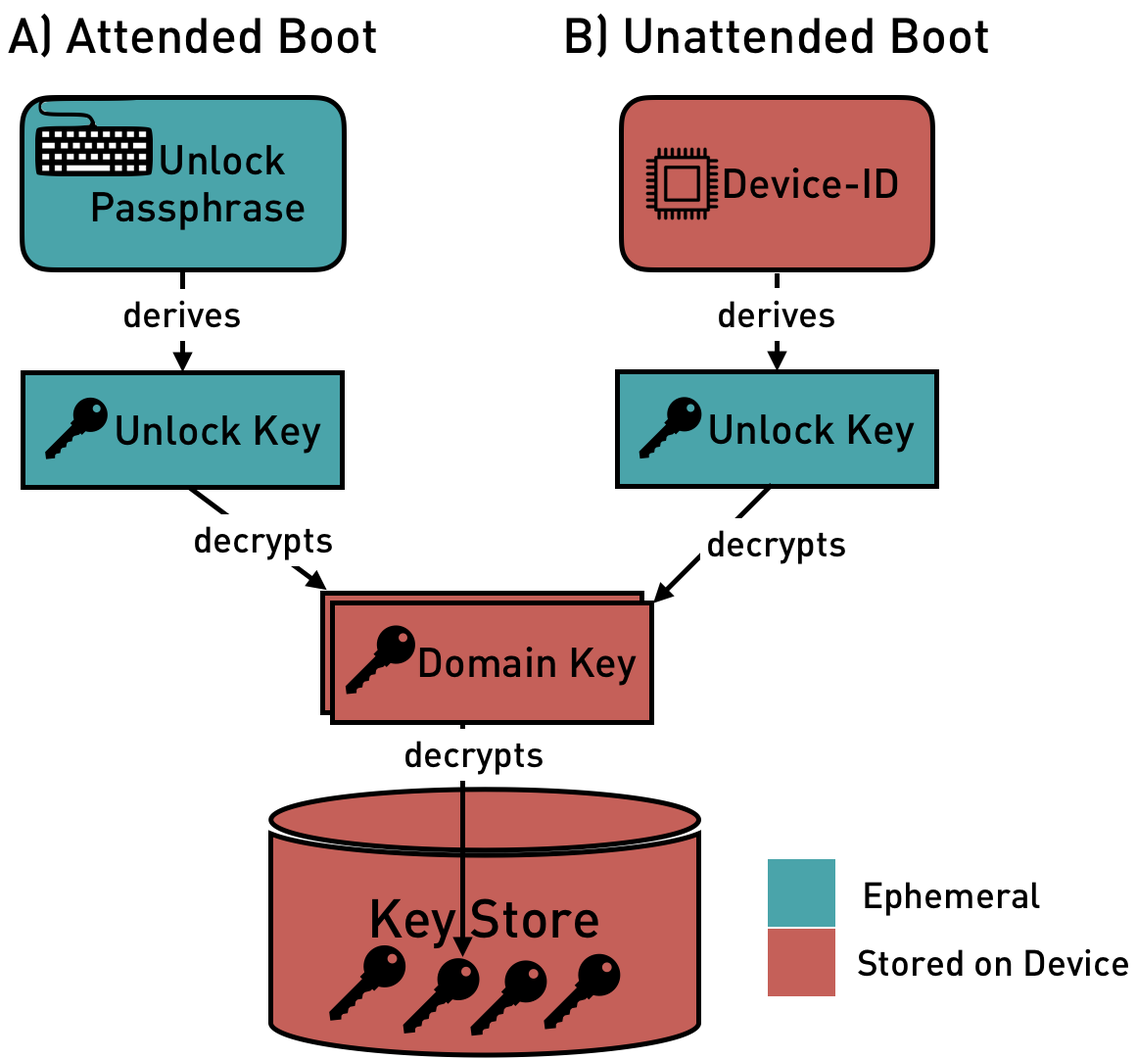
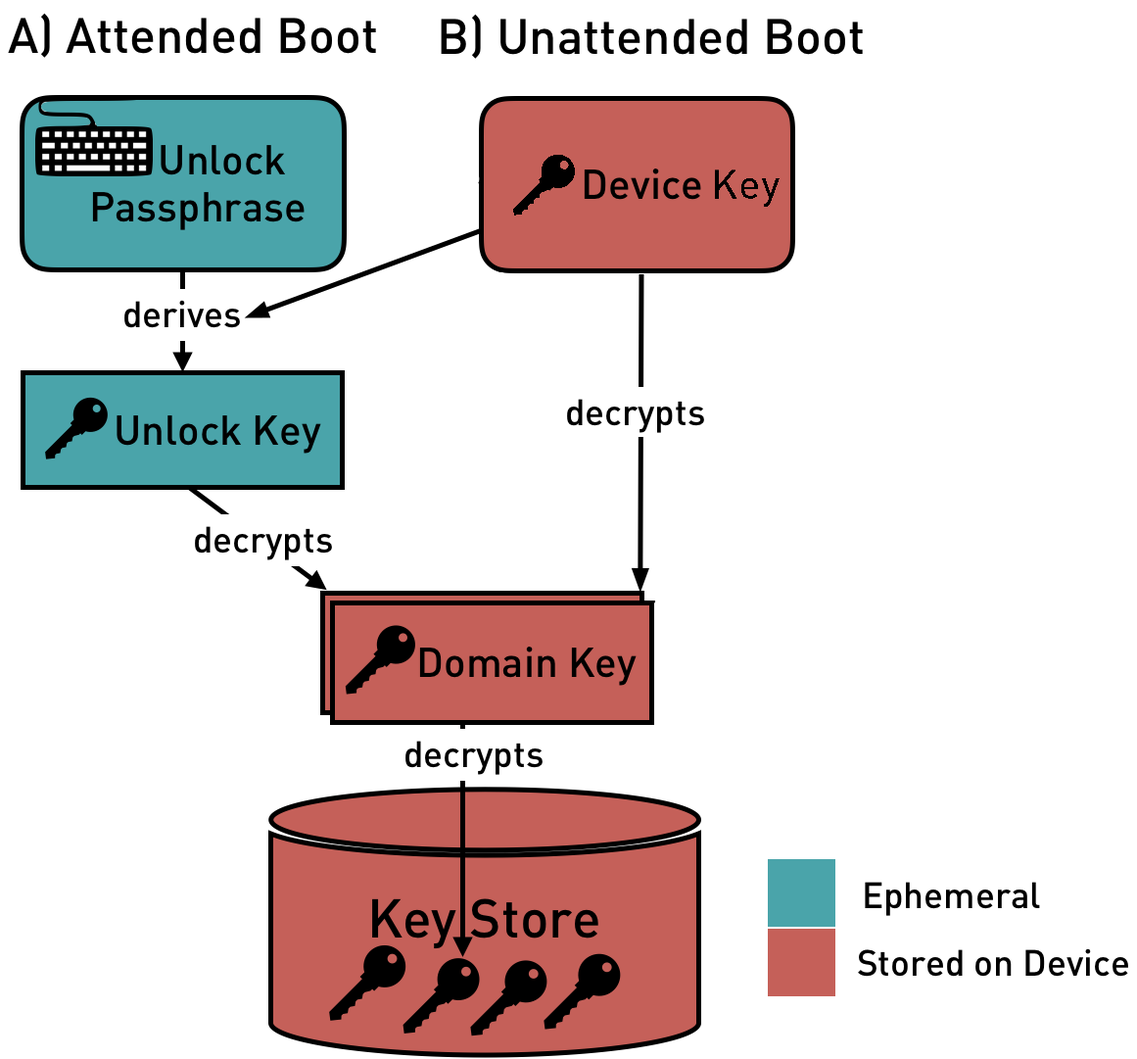
System Design updated globally

diff --git a/docs/system-design.md b/docs/system-design.md
@@ -1,6 +1,6 @@
 % NetHSM System Design
 % Hannes Mehnert; Martin Lucina; Stefanie Schirmer; Sven Anderson; Jan Suhr
-% Nitrokey GmbH, 30th August 2023
+% Nitrokey GmbH, 2023
 
 # Introduction {#sec-i}
 
@@ -31,12 +31,6 @@ We use Muen as the lowest layer, i.e. operating system that runs on the NetHSM h
 The following aspects of the system design, which have changed over the course of the development of NetHSM, are not yet reflected in this document:
 
 * [Reset to Factory Defaults](#sec-us-rtfd): NetHSM will not be equipped with a physical "Reset Button". Instead, the user will be required to initiate and _confirm_ a Reset to Factory Defaults by interacting with a local serial console connected to the unit. This feature is not implemented yet.
-* [Encryption Architecture](#sec-dd-ea): The _Device Key_ used as part of [Unattended Boot](#sec-us-ub) is currently hard-coded for development purposes. This will be replaced with a TPM-based solution, the exact details of which are yet to be defined.
-* [Technical Architecture](#sec-dd-ta): **S-TRNG** is not implemented yet and will be replaced by a TPM-based solution, the exact architecture of which is yet to be defined. For now **S-Storage** and **S-Platform** are combined in a single subject **S-Kitchen-Sink** and should be separated later.
-* [System Firmware](#sec-dd-ta-sf):
-    * _Firmware_ integrity shall be protected by the use of Intel Boot Guard on the platform. This feature is not implemented yet.
-    * Offline but on-site _Firmware_ update will be provided via **Ext-FirmwareUpdate**. This feature is not implemented yet.
-* [System Software Update](#sec-dd-ta-ssu): This feature is not yet implemented, and will be implemented using a simplified "A/B updates" mechanism with manual fall-back available by interacting with a local serial console connected to the unit.
 
 # Terminology and Conventions {#sec-tac}
 
@@ -58,7 +52,7 @@ Configuration Store
 
 Device Key
 
-: A persistent device-dependent identifier, unique to each NetHSM hardware unit delivered by Nitrokey. The Device Key is used to derive an _Unlock Key_, if and only if unattended boot is configured.
+: A persistent device-dependent key, unique to each NetHSM hardware unit delivered by Nitrokey. The *Device Key* is used to derive an _Unlock Key_.
 
 Domain Key
 
@@ -70,7 +64,7 @@ Domain Key Store
 
 Extension
 
-: An optional feature not part of the Minimum Viable Product. Extensions are referred to as **Ext-Name** throughout this document.
+: An optional feature not in scope of the current implementation. Extensions are referred to as **Ext-Name** throughout this document.
 
 Firmware
 
@@ -140,18 +134,11 @@ Note that this list of user stories is not exhaustive.
 
 ## Initial Provisioning {#sec-us-ip}
 
-Pre-conditions: An _Unprovisioned_ NetHSM, with its Ethernet port _directly_ connected to the secure client computer to be used for Initial Provisioning.
+Pre-conditions: An _Unprovisioned_ NetHSM, with its Ethernet port _directly_ connected to the client computer to be used for Initial Provisioning.
 
 1. Power on the NetHSM.
 2. The NetHSM will boot up with a static IP address of `192.168.1.1` and will generate a new self-signed TLS certificate and private key.
-3. On the secure client computer, browse to `https://192.168.1.1/`.
-4. Add a security exception for the NetHSM's self-signed TLS certificate.
-5. The system will prompt you to set the "wall clock" time (see [Timekeeping](#sec-dd-ta-s-t)).
-6. The system will prompt you to either:
-
-     a. Set an _Unlock Passphrase_.
-     b. Set a passphrase for an initial **R-Administrator** user account, by convention named `admin`.
-     c. The NetHSM is now in an _Operational_ state.
+3. On the client computer use a client tool (such as nitropy) or access the API directly at `https://(NetHSM's hostname)/api/` to provision the NetHSM. This includes setting NetHSM's system time, an _Unlock Passphrase_, and a passphrase for an initial **R-Administrator** user account, by convention named `admin`. The NetHSM is now in an _Operational_ state.
 7. Or:
 
      a. Restore from an existing backup. You will need to provide the _Backup Passphrase_.
@@ -160,9 +147,9 @@ Pre-conditions: An _Unprovisioned_ NetHSM, with its Ethernet port _directly_ con
 
 **Notes:**
 
-After step 6c, the user is expected to continue with configuration of the NetHSM, primarily by configuring the TLS endpoint by generating a CSR on the NetHSM and submitting the result to a certification authority.
+After step 3, the user is expected to continue with configuration of the NetHSM, primarily by configuring the TLS endpoint by generating a CSR on the NetHSM and submitting the result to a certification authority.
 
-In step 7a, the system will restore all _User Data_. This may result in the IP address and TLS certificate changing on next boot. Refer to [Backup and Restore](#sec-dd-ta-s-bar) for details.
+In step 4a, the system will restore all _User Data_. This may result in the IP address and TLS certificate changing on next boot. Refer to [Backup and Restore](#sec-dd-ta-s-bar) for details.
 
 ## Attended Boot {#sec-us-ab}
 
@@ -171,7 +158,7 @@ Pre-conditions: A _Provisioned_ NetHSM, connected to your infrastructure network
 1. Power on.
 2. The NetHSM boots up into the _Locked_ state. To unlock it, perform the following steps:
 
-     a. Browse to `https://(NetHSM's hostname)/`.
+     a. Use a client tool (e.g. nitropy) or access the API directly at `https://(NetHSM's hostname)/api/`.
      b. Enter the _Unlock Passphrase_.
 3. The NetHSM is now in an _Operational_ state.
 
@@ -195,9 +182,8 @@ Refer to [Encryption Architecture](#sec-dd-ea) for implementation details of una
 
 Pre-conditions: A _Provisioned_ NetHSM, connected to your infrastructure network.
 
-1. Browse to the NetHSM and log in as an **R-Administrator** account.
-2. Navigate to "configure unattended boot" and enable the option.
-3. On next boot, the NetHSM will behave as described in [Unattended Boot](#sec-us-ub).
+1. As a user with a **R-Administrator** role, use a client tool (e.g. nitropy) or access the API directly at `https://(NetHSM's hostname)/api/` to enable unattended boot.
+2. On next boot, the NetHSM will behave as described in [Unattended Boot](#sec-us-ub).
 
 **Notes:**
 
@@ -207,8 +193,7 @@ Refer to [Encryption Architecture](#sec-dd-ea) for implementation details of una
 
 Pre-conditions: A _Provisioned_ NetHSM, connected to your infrastructure network, with unattended boot enabled.
 
-1. Browse to the NetHSM and log in as an **R-Administrator** account.
-2. Navigate to "configure unattended boot" and disable the option.
+1. As a user with a **R-Administrator** role, use a client tool (e.g. nitropy) or access the API directly at `https://(NetHSM's hostname)/api/` to disable unattended boot.
 3. On next boot, the NetHSM will behave as described in [Attended Boot](#sec-us-ab).
 
 **Notes:**
@@ -219,12 +204,11 @@ Refer to [Encryption Architecture](#sec-dd-ea) for implementation details of una
 
 Pre-conditions: A _Provisioned_ NetHSM, connected to your infrastructure network.
 
-1. Browse to the NetHSM and log in as an **R-Administrator** account.
-2. Upload a signed _System Software_ image to the NetHSM.
-3. The NetHSM verifies image authenticity, integrity, and version number.
-4. Optionally, the NetHSM displays release notes, if any.
-5. Confirm the update operation ("commit").
-6. The NetHSM will reboot into the new _System Software_.
+1. As a user with a **R-Administrator** role, use a client tool (e.g. nitropy) or access the API directly at `https://(NetHSM's hostname)/api/` to upload a signed _System Software_ image to the NetHSM.
+2. The NetHSM verifies image authenticity, integrity, and version number.
+3. Optionally, the NetHSM displays release notes, if any.
+4. Confirm the update operation ("commit").
+5. The NetHSM will reboot into the new _System Software_.
 
 **Notes:**
 
@@ -236,9 +220,7 @@ If the NetHSM is powered down before the "commit" operation, the user will have 
 
 Pre-conditions: A _Provisioned_ NetHSM, connected to your infrastructure network. The _Backup Passphrase_ is configured.
 
-1. Browse to the NetHSM and log in as an **R-Administrator** or **R-Backup** account.
-2. Navigate to "Backup".
-3. Download the encrypted backup.
+1. As a user with a **R-Administrator** or **R-Backup** role, use a client tool (e.g. nitropy) or access the API directly at `https://(NetHSM's hostname)/api/` to download an encrypted backup.
 
 **Notes:**
 
@@ -254,11 +236,9 @@ Refer to [Reset to Factory Defaults](#sec-us-rtfd) and [Initial Provisioning](#s
 
 Pre-conditions: A _Provisioned_ NetHSM, connected to your infrastructure network.
 
-1. Browse to the NetHSM and log in as an **R-Administrator** account.
-2. Navigate to "Restore from an existing backup".
-3. You will need to provide the _Backup Passphrase_ and the backup archive.
-4. The NetHSM restores keys and users data.
-5. The NetHSM ends in Operational state.
+1. As a user with a **R-Administrator** role, use a client tool (e.g. nitropy) or access the API directly at `https://(NetHSM's hostname)/api/` to restore an existing backup to the NetHSM. This requires to provide the _Backup Passphrase_ and the backup archive file.
+2. The NetHSM restores keys and users data.
+3. The NetHSM ends in Operational state.
 
 **Notes:**
 
@@ -271,12 +251,10 @@ Pre-conditions: A _Provisioned_ NetHSM, connected to your infrastructure network
 
 Pre-conditions: A _Provisioned_ NetHSM, connected to your infrastructure network.
 
-1. Browse to the NetHSM and log in as an **R-Administrator** account.
-2. Navigate to "Reset to Factory Defaults".
-3. Confirm the operation.
-4. The NetHSM securely erases all _User Data_.
-5. The NetHSM reboots.
-6. The NetHSM boots up in an _Unprovisioned_ state; see [Initial Provisioning](#sec-us-ip).
+1. As a user with a **R-Administrator** role, use a client tool (e.g. nitropy) or access the API directly at `https://(NetHSM's hostname)/api/` to reset to Factory Defaults.
+2. The NetHSM securely erases all _User Data_.
+3. The NetHSM reboots.
+4. The NetHSM boots up in an _Unprovisioned_ state; see [Initial Provisioning](#sec-us-ip).
 
 ### Physical Reset (Recovery) {#sec-us-rtfd-pr}
 
@@ -305,10 +283,6 @@ For each data store, the diagram shows, as a high-level overview, which types of
 
 Each user account configured on the NetHSM has _one_ of the following _Roles_ assigned to it. Following is a high-level description of the operations allowed by individual _Roles_, for endpoint-specific details please refer to the REST API documentation.
 
-Notes:
-
-As an alternative to a physical "Reset Button", we may require the user to plug in a keyboard and hold down e.g. F2 while the NetHSM is booting. The final technology depends on the choice of hardware by Nitrokey.
-
 R-Administrator
 
 : A user account with this _Role_ has access to all operations provided by the REST API, with the exception of "key usage" operations, i.e. message signing and decryption.
@@ -329,7 +303,7 @@ R-Backup
 
 To enable a fine-grained access control of key usage operations, Operator user accounts can get assigned a list of _Tags_ granting them access to restricted keys.
 
-_Tags_ are managed by Administrator users:
+_Tags_ are managed by R-Administrator users:
 
 - Keys can be subject to a restriction list: a set of _Tags_ in which **one** of them need to be matched for the key to be used.
 - Operator users get assigned a set of _Tags_ enabling them the use of the corresponding keys. It can be read but not modified by the user.
@@ -346,13 +320,12 @@ The _Domain Key_ is stored in the _Domain Key Store_, and encrypted using AES256
 The _Domain Key Store_ contains two "Slots" for encrypted _Domain Keys_; which "Slot" is used depends on whether or not the NetHSM is configured for [Unattended Boot](#sec-us-ub). Specifically, a _Provisioned_ NetHSM (via **S-Keyfender**) performs the following steps during boot to transition from the initial _Locked_ state into an _Operational_ state:
 
 |     _State_ = _Locked_
-|     _Unlock Key_ = KDF(_Device Key_)
-|     _Domain Key_ = Decrypt\_AES256GCM(_Unlock Key_, _Slot 1_)
-|     IF decryption was successful:
+|     _Domain Key_ = Decrypt\_AES256GCM(_Device Key_, _Slot 1_)
+|     IF decryption was successful: # In case of Unattended Boot
 |         GOTO UNLOCKED
-|     ELSE LOOP:
+|     ELSE LOOP: # In case of Attended Boot
 |         _Unlock Passphrase_ = Await API call to `/unlock` endpoint
-|         _Unlock Key_ = KDF(_Unlock Passphrase_)
+|         _Unlock Key_ = SHA256(*Device Key*|KDF(_Unlock Passphrase_))
 |         _Domain Key_ = Decrypt\_AES256GCM(_Unlock Key_, _Slot 0_)
 |         IF decryption was successful:
 |             Return _Success_ to API caller
@@ -363,11 +336,13 @@ The _Domain Key Store_ contains two "Slots" for encrypted _Domain Keys_; which "
 |     UNLOCKED:
 |     _State_ = _Operational_
 
-During [Unattended Boot](#sec-us-ub), (see Figure 2: Encryption Architecture, right hand side), a unique _Device Key_ is used to derive the _Unlock Key_, which is then used to decrypt the encrypted _Domain Key_ stored in "Slot 1". If the decryption step fails (for example, due to _User Data_ having been restored from a backup created on a different hardware unit), the NetHSM shall automatically fall back to [Attended Boot](#sec-us-ab).
+A random *Device Key* (unique per device) is generated during the first boot of the system. The TPM is used to seal it with the Storage Root Key (SRK) and the PCR measurement of the firmware. During subsequent boots the sealed *Device Key* is unsealed with the TPM. This prevents access of unauthorized firmware to the *Device Key*.
 
-During [Attended Boot](#sec-us-ab), (see Figure 2: Encryption Architecture, left hand side), the NetHSM waits for the user (via the `/unlock` endpoint of the REST API) to provide an _Unlock Passphrase_. This is used to derive the _Unlock Key_, which is then similarly used to decrypt the encrypted _Domain Key_ stored in "Slot 0". If the decryption step fails (due to the user providing an incorrect _Unlock Passphrase_), the NetHSM shall remain in the _Locked_ state, and continue to await an _Unlock Passphrase_.
+During [Unattended Boot](#sec-us-ub), (see Figure 2: Encryption Architecture, right hand side), the _Device Key_ is used to decrypt the encrypted _Domain Key_ stored in "Slot 1". If the decryption step fails the NetHSM shall automatically fall back to [Attended Boot](#sec-us-ab).
 
-For the avoidance of doubt: The act of [Enabling Unattended Boot](#sec-us-eub) causes **S-Keyfender** to compute an _Unlock Key_ derived from the _Device Key_ and populate "Slot 1" with a _Domain Key_ encrypted with this _Unlock Key_. Conversely, [Disabling Unattended Boot](#sec-us-dub) causes **S-Keyfender** to erase (overwrite) the contents of "Slot 1". At no point does the NetHSM persistently store either the _Unlock Passphrase_ or an _Unlock Key_.
+During [Attended Boot](#sec-us-ab), (see Figure 2: Encryption Architecture, left hand side), the NetHSM waits for the user (via the `/unlock` endpoint of the REST API) to provide an _Unlock Passphrase_. The *Device Key* is extended with the KDF of the *Unlock Passphrase* and hashed with SHA256. The resulting hash is used as the *Unlock Key*. The _Unlock Key_ is then similarly used to decrypt the encrypted _Domain Key_ stored in "Slot 0". If the decryption step fails (due to the user providing an incorrect _Unlock Passphrase_ or invalid *Device Key*), the NetHSM shall remain in the _Locked_ state, and continue to await an _Unlock Passphrase_.
+
+For the avoidance of doubt: The act of [Enabling Unattended Boot](#sec-us-eub) causes **S-Keyfender** to populate "Slot 1" with a _Domain Key_ encrypted with the _Device Key_. Conversely, [Disabling Unattended Boot](#sec-us-dub) causes **S-Keyfender** to erase (overwrite) the contents of "Slot 1". At no point does the NetHSM persistently store either the _Unlock Passphrase_ or an _Unlock Key_.
 
 ## Technical Architecture {#sec-dd-ta}
 
@@ -377,7 +352,7 @@ NetHSM consists of five Muen subjects, as shown in Figure 3: Muen Subjects. Bidi
 
 The **S-Net-External** subject is a minimized Linux which bridges Ethernet frames between the physical Ethernet device, which is passed to this subject, and the virtual network interface connected to **S-Keyfender**. Apart from the Ethernet device driver only a minimal amount of Linux "userland" needs to be present in **S-Net-External**, e.g. `brctl` and `ip`, to enable bridging between the two interfaces. Specifically, there is no need for a configured IP address for this subject.
 
-The **S-TRNG** subject is a minimized Linux which provides external entropy to **S-Keyfender**. It utilizes the TRNG of a SmartCard, connected via USB, to periodically send datagrams to **S-Keyfender** containing output of the TRNG. The physical USB controller is passed to this subject.
+The **S-TRNG** subject is a minimized Linux which provides external entropy to **S-Keyfender**. It utilizes a TRNG, to periodically send datagrams to **S-Keyfender** containing output of the TRNG.
 
 The **S-Storage** subject is a minimized Linux which provides persistence to **S-Keyfender** via the `git` protocol, storing the repository on virtualized block storage provided by **S-Platform**.
 
@@ -389,18 +364,17 @@ The **S-Keyfender** subject is a MirageOS Unikernel which provides a HTTPS endpo
 
 **S-Time** (not illustrated) enables accessing the device's real time clock.
 
-**Note**: Currently **S-TRNG** is not implemented. Also, **S-Storage** and **S-Platform** are combined in a single subject **S-Kitchen-Sink**.
+**Note**: Currently **S-TRNG**, **S-Storage** and **S-Platform** are combined in a single subject **S-Platform**.
 
 ### S-Keyfender {#sec-dd-ta-s}
 
-**S-Keyfender** is the core subject of NetHSM, implemented entirely in OCaml as a MirageOS unikernel. It provides a HTTPS endpoint, serving the REST API providing the core NetHSM functionality to consumers. We expect that there will initially be two consumers of the REST API:
+**S-Keyfender** is the core subject of NetHSM, implemented entirely in OCaml as a MirageOS unikernel. It provides a HTTPS endpoint, serving the REST API providing the core NetHSM functionality to consumers. We expect that initially there will be two consumers of the REST API:
 
-1. Web UI, implemented as a client-side JavaScript application
+1. The command line tool [nitropy].
 2. PKCS#11 driver
 
 Additional functionality provided by **S-Keyfender**:
 
-* hosting of static HTML, JavaScript and other assets required by the Web UI,
 * logging of system events to a remote syslog host (as defined by [RFC 3164]),
 * an API endpoint for retrieving metrics (e.g. network traffic, memory usage, store usage, key operations, uptime).
 
@@ -408,6 +382,7 @@ For the avoidance of doubt, the following functionality is specifically _not_ pr
 
 * A DNS resolver or DHCP client. This implies that a NetHSM can only be configured to use a static IPv4 address, and that any external services (such as syslog) can likewise only be configured using an IPv4 address.
 
+[nitropy]: https://docs.nitrokey.com/software/nitropy/
 [RFC 3164]: https://tools.ietf.org/html/rfc3164
 
 #### Timekeeping {#sec-dd-ta-s-t}
@@ -450,7 +425,7 @@ When performing backups, **S-Keyfender** serializes (but _not_ decrypts) the con
 
 #### Communication with S-Platform {#sec-dd-ta-cws}
 
-The **S-Keyfender** subject uses a communication channel with **S-Platform** to conduct operations that need low-level platform functionality: reboot, shutdown, reset, update, and retrieving the Device Key. The protocol is line-based over a TCP stream, where **S-Platform** is listening on a socket for client connections - only a single client connection at any time is supported.
+The **S-Keyfender** subject uses a communication channel with **S-Platform** to conduct operations that need low-level platform functionality: reboot, shutdown, reset, update, and retrieving the *Device Key*. The protocol is line-based over a TCP stream, where **S-Platform** is listening on a socket for client connections - only a single client connection at any time is supported.
 
 The client, after establishing the TCP stream, sends the command (all uppercase) followed by a single newline character. The server replies with either "OK" or "ERROR", optionally followed by a whitespace character and printable ASCII characters, terminated with a newline character.
 
@@ -469,9 +444,7 @@ Some sample sessions:
 
 **Ext-MultiCore**: **S-Keyfender** could be split up into two subjects: **S-Keyfender**, and **S-Crypto-Worker**. **S-Keyfender** would then delegate all operations on private key material (key generation, decryption, signing) to **S-Crypto-Worker**. This could be implemented using a simple "request queue", with load-balancing to multiple instances of **S-Crypto-Worker** running on multiple CPU cores. Depending on the protocol used for such delegation requests (private key in-band or not), **S-Crypto-Worker** _may_ require access to **S-Storage**. Apart from providing the ability to scale up to multiple CPU cores for performance, this would also allow **S-Keyfender** to continue to serve HTTPS requests while a long-running cryptographic operation (e.g. key generation) is in progress.
 
-**Ext-SmartCard**: As currently designed, the private key used by **S-Keyfender** for the TLS endpoint is stored unencrypted in the _Configuration Store_. This is unavoidable as otherwise there would be no way for a NetHSM to provide a TLS endpoint. We could instead store this private key on the smartcard available to **S-TRNG**. This would make it impossible to extract the private key from a running NetHSM remotely; however, an attacker with physical access could still steal the smartcard. This would require both a more complex, bi-directional, communication protocol between **S-Keyfender** and **S-TRNG** and much more of a software stack (at least all of `opensc`, `pcscd` and a [PKCS#11 proxy][caml-crush]) running inside **S-TRNG**.
-
-[caml-crush]: https://github.com/caml-pkcs11/caml-crush
+As currently designed, the private key used by **S-Keyfender** for the TLS endpoint and other data is stored unencrypted in the _Configuration Store_. This is unavoidable as otherwise there would be no way for a NetHSM to provide a TLS endpoint. We could instead store this private key in the TPM or encrypt the *Configuration Store* with the *Device Key*. This would require both a more complex, bi-directional, communication protocol between **S-Keyfender** and **S-TRNG**.
 
 **Ext-Syslog-TLS**: Implement full syslog support as described in [RFC 5424], with support for a TLS-based transport as described in [RFC 5425]. Requires **Ext-Time** for server TLS certificate validation.
 
@@ -491,7 +464,7 @@ All Linux-based Muen subjects that are integrated in the system will be built on
     - [U-Root][uroot], which provides Go implementations for the bulk of the "userland" and tooling to easily build "run from initramfs" based Linux systems.
     - A custom `uinit` for U-root, implemented in Go, which manages the Linux subject's lifecycle.
 - The following additional "userland" software components, all of which are cross-compiled as static binaries using a musl libc [toolchain][muslcross], and only the _required_ subset of each is installed into the initramfs:
-    - Git (specifically, `git-daemon`)
+    - etcd
     - e2fsprogs (specifically, `mke2fs`)
 
 [kernelorg]: https://kernel.org/
@@ -511,15 +484,15 @@ Updates must be applied manually by the user; "OTA" updates are not in scope.
 The act of updating the _System Software_ is performed by **S-Platform**; when **S-Keyfender** is processing an update file from the REST API, the following actions happen in parallel:
 
 - **S-Keyfender** performs any decompression required and streams the binary image to **S-Platform**, which writes it to an _inactive_ system partition.
-- at the same time, **S-Keyfender** verifies the "outer signature" (protecting the integrity of the binary image, version number, release notes) and update eligibility.
+- at the same time, **S-Keyfender** verifies the "outer signature" of the Update Key (protecting the integrity of the binary image, version number, release notes) and update eligibility.
 
 _If and only if_ verification of the _System Software_'s "outer signature" and update eligibility are successful, **S-Keyfender** enables the REST API endpoint allowing the user to "commit" the software update. Only after this endpoint is requested, **S-Keyfender** will instruct **S-Platform** to perform the actions necessary (e.g. modifying the GPT or interacting with the _Firmware_) to boot from the new system partition _once_ on next boot.
 
-During boot, the _System Software_'s "inner signature" is verified by the _Firmware_ as part of _Verified Boot_. If the new _System Software_ does not boot successfully or the _Verified Boot_ verification fails, the system will automatically reboot into the old _System Software_ as a fallback.
+During boot, the _System Software_'s "inner signature" of the Boot Key is verified by the _Firmware_ as part of _Verified Boot_. If the new _System Software_ does not boot successfully or the _Verified Boot_ verification fails, the system will automatically reboot into the old _System Software_ as a fallback.
 
 _If and only if_ both _Verified Boot_ verification succeeds and the new _System Software_ boots successfully, the new _System Software_ will perform the actions necessary to permanently configure the system to boot into the new _System Software_ (e.g. by modifying the GPT or interacting with the _Firmware_). The new _System Software_ may now start data migration, if required.
 
-The actual implementation details of **S-Platform** will be based on the design used by both Chromium OS and CoreOS Container Linux, and are not described in more detail in this document; please refer to the Chromium OS [Disk Format][chromium-disk] and [File System/Autoupdate][chromium-autoupdate] design documents. Any deviations from this design will be documented during implementation.
+The actual implementation details of **S-Platform** will be based on the design used by both Chromium OS and CoreOS Container Linux, and are not described in more detail in this document; please refer to the Chromium OS [Disk Format][chromium-disk] and [File System/Autoupdate][chromium-autoupdate] design documents.
 
 [chromium-disk]: http://www.chromium.org/chromium-os/chromiumos-design-docs/disk-format
 [chromium-autoupdate]: https://www.chromium.org/chromium-os/chromiumos-design-docs/filesystem-autoupdate
@@ -527,22 +500,18 @@ The actual implementation details of **S-Platform** will be based on the design 
 
 ### System Firmware {#sec-dd-ta-sf}
 
-Coreboot is used as the _Firmware_ of the NetHSM, with GRUB 2 as the Coreboot payload (boot loader). In order to implement the functionality and System Design as described thus far, the following is required from the _Firmware_ and payload:
+Coreboot is used as the _Firmware_ of the NetHSM, with GRUB 2 as the Coreboot payload (boot loader). It provides the following functionality:
 
-1. GPT support is required for [System Software Update](#sec-dd-ta-ssu).
+1. GPT support for [System Software Update](#sec-dd-ta-ssu).
 2. Muen uses the [Signed Block Stream][sbs-spec] (SBS) protocol for _Verified Boot_. The SBS implementation from Codelabs has been integrated to GRUB 2.
 3. If a hardware "reset button" is used (see [Physical Reset (Recovery)](#sec-us-rtfd-pr)), this implies extra customizations to Coreboot.
 4. Support for VT-d and correct bring-up of the IOMMU, required for Muen.
-5. Support for flashing a unique _Device Key_, this _may_ require customization of Coreboot and/or the payload.
-6. If Coreboot is used in combination with "ME Cleaner" or similar, care must be taken by the team selecting the board and/or _Firmware_ to ensure that the system is still stable in such a configuration and all the above requirements are provided for.
 
 [sbs-spec]: https://www.codelabs.ch/download/bsbsc-spec.pdf
 
 **Ext-FirmwareUpdate**: The current design allows for in-band updates of the _System Software_ only. Notably, this does _not_ include updates of CPU microcode as Muen has no support for this, instead choosing to delegate this to the _Firmware_. If in-band update of platform _Firmware_ is desired, this can be implemented as an extension which would likely take the form of a USB key containing a special Muen-based system with the additional software (`flashrom` et al.) required. Note that additional threats and attack surface (ability to write to the system flash) should be carefully considered in the development of such a system.
 
 #### Verified Boot {#sec-dd-ta-sf-vb}
-
-**TODO:** This diagram needs to be reviewed and the description to be simplified and clarified.
 
 ![](verified-boot.png)
 
@@ -566,26 +535,53 @@ During system boot, Coreboot will launch the GRUB 2 payload, which will initiall
 
 ## Security Design {#sec-dd-sd}
 
-NetHSM runs on commodity hardware using a minimal amount of high-assurance software to protect private keys stored in the *Key Store*.
+NetHSM runs on commodity hardware using a minimal amount of high-assurance software to protect private keys stored in the *Key Store*. A TPM is used to secure a *Device Key*, which is used to encrypt the *Domain Key*, and prevents unauthorized modifications of the firmware.
 
 NetHSM security design is based on software with a minimal trusted computing base (TCB): The Muen separation kernel is used for managing the physical resources of the system and isolating the subjects from each other. Device drivers for physical devices (Ethernet, USB, Storage) are provided by minimized Linux subjects, which are accessible only from the Muen subjects. The core subject is **S-Keyfender**, a MirageOS based unikernel, developed in OCaml.
 
-In case a subject is exploited (e.g. by exploiting the USB driver stack of the **S-TRNG** subject, or the Ethernet driver of the **S-Net-External** subject), it does not lead to a compromise of the *Key Store* assets. Muen ensures that only the **S-Keyfender** subject, if it is _Unlocked_, has access to the decrypted _Key Store_. The _Domain Key_ used for encrypting data in the _Key Store_ is only kept in memory, and never written unencrypted to persistent storage.
+In case a subject is exploited (e.g. by exploiting the Ethernet driver of the **S-Net-External** subject), it does not lead to a compromise of the *Key Store* assets. Muen ensures that only the **S-Keyfender** subject, if it is _Unlocked_, has access to the decrypted _Key Store_. The _Domain Key_ used for encrypting data in the _Key Store_ is only kept in memory, and never written unencrypted to persistent storage.
 
 Each subject has only the minimum of privileges absolutely necessary for its operation. The TCB is kept small. It consists of the Muen separation kernel and **S-Keyfender**. The other subjects do not have access to the unencrypted private key material. A compromised subject (other than **S-Keyfender**) cannot access stored private key material.
 
 Muen is implemented in Ada, a memory-safe programming language, and its isolation properties are formally verified in the Spark language. **S-Keyfender** is a MirageOS unikernel implemented in OCaml, a functional memory-safe language. MirageOS has been developed over 10 years to remove dependencies written in unsafe languages.
 
-NetHSM uses an append-only store for all _User Data_ (git-based). This comes with an audit trail for each data modification, which adds accountability and rollback points for the data.
+NetHSM uses etcd to store all _User Data_. This comes with an log for each data modification, which adds accountability and rollback points for the data.
 
-### Random Numbers {#sec-dd-sd-rn}
+### Entropy {#sec-dd-sd-rn}
+
+NetHSM has the following entropy sources:
+
+- Nitrokey TRNG RS232
+
+- TPM RNG
+- Intel CPU's RDRAND
+- Event loop from network and IO
+
+Entropy is consumed in S-Platform and S-Keyfender.
+
+#### S-Platform
+
+S-Platform executes the following in an endless loop:
+
+- 8 kb are read from the TRNG RS232 and sent to the feeder function
+- 1 second pause
+- 4 kb are read from the TPM RNG and sent to the feeder function
+- 1 second pause
+
+The feeder function sends the first half of the buffer to S-Keyfender, and writes the second half to /dev/random.
+During boot of the system **S-Keyfender** requests a Device Key from S-Platform. At very first boot of the system a Device Key doesn't exist yet. The possible generation of a new Device Key is delayed until the feeder has been called at least once. The entropy used to generate the Device Key is retrieved from the Go library [crypto/rand.Read()][go-crypto-rand] which uses getrandom(2). If any of the two entropy sources failed, no Device Key is generated, an error message is logged at the serial console, the system doesn't proceed booting and ends in an non-operational state.
+
+#### S-Keyfender
 
 The **S-Keyfender** subject uses as cryptographically secure random number generator, an [implementation of][fortuna-impl] [Fortuna] with 32 pools. **S-Keyfender** does not have direct access to real hardware, it is crucial to collect non-predictable entropy.
 
-The entropy sources used [during startup][startup-entropy] are the CPU instruction [RDRAND] (executed three times, returning 64 bit each), and once the [Whirlwind] bootstrap algorithm based on timing of instructions that take a variable number of cycles (with l=100 lmax=1024).
+The entropy sources used [during startup][startup-entropy] are are the CPU instruction RDRAND (executed three times, returning 64 bit each), and once the Whirlwind bootstrap algorithm based on timing of instructions that take a variable number of cycles (with l=100 lmax=1024).
 
-During normal operation, every second the output of an RDRAND execution is fed into each pool. When an event (wakeup of a sleeper, network read) is executed, a cycle counter (using RDTSC) is taken, and the lower four bytes are fed into the entropy pool. The first event cycle counter is fed into the first entropy pool, the second into the second, etc.
+During normal operation, every second the output of an RDRAND execution is fed into each pool. When an event (wakeup of a sleeper, network read) is executed, a cycle counter (using RDTSC) is taken, and the lower four bytes are fed into the entropy pool. The first event cycle counter is fed into the first entropy pool, the second into the second, etc. Additionally **S-Keyfender** listens on an UDP port for packages with random data from S-Platform. These packages contain entropy from both TRNG RS232 and TPM TRNG and are fed into all 32 pools.
 
+In case during the operation either TRNG RS232 or TPM RNG fails, an error message is logged repeatedly in Syslog and the system keeps running. If both of these entropy sources fail, the system stops and ends in a non-operational state.
+
+[go-crypto-rand]: https://git.nitrokey.com/nitrokey/nethsm/nethsm/-/blob/master/crypto/rand.Read()
 [Fortuna]: https://www.schneier.com/academic/fortuna/
 [fortuna-impl]: https://github.com/mirage/mirage-crypto/tree/master/rng
 [startup-entropy]: https://github.com/mirage/mirage-crypto/blob/master/rng/mirage/mirage_crypto_rng_mirage.ml
